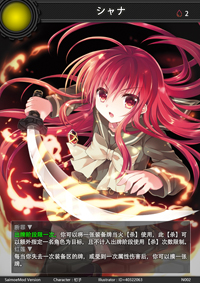
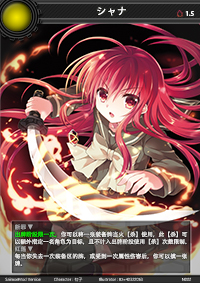
Shana MaxHp and Some Translation

diff --git a/src/package/novel.cpp b/src/package/novel.cpp
@@ -3013,7 +3013,7 @@ void MoesenPackage::addNovelGenerals()
     taiga->addSkill(new Yexi);
     taiga->setHeadMaxHpAdjustedValue(-1);
 
-    General *shana = new General(this, "shana", "qun", 4, false); // N002
+    General *shana = new General(this, "shana", "qun", 1.5, false); // N002
     shana->addSkill(new Duanzui);
     shana->addSkill(new DuanzuiTM);
     shana->addSkill(new Honglian);
